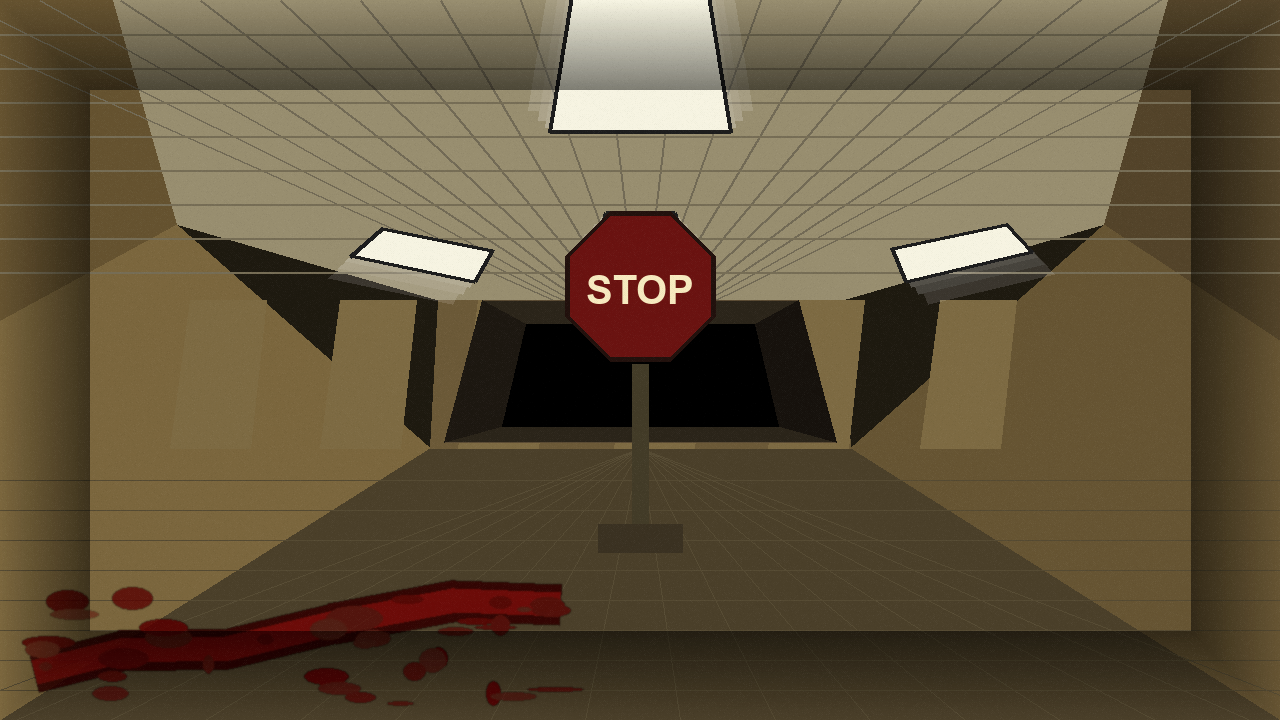
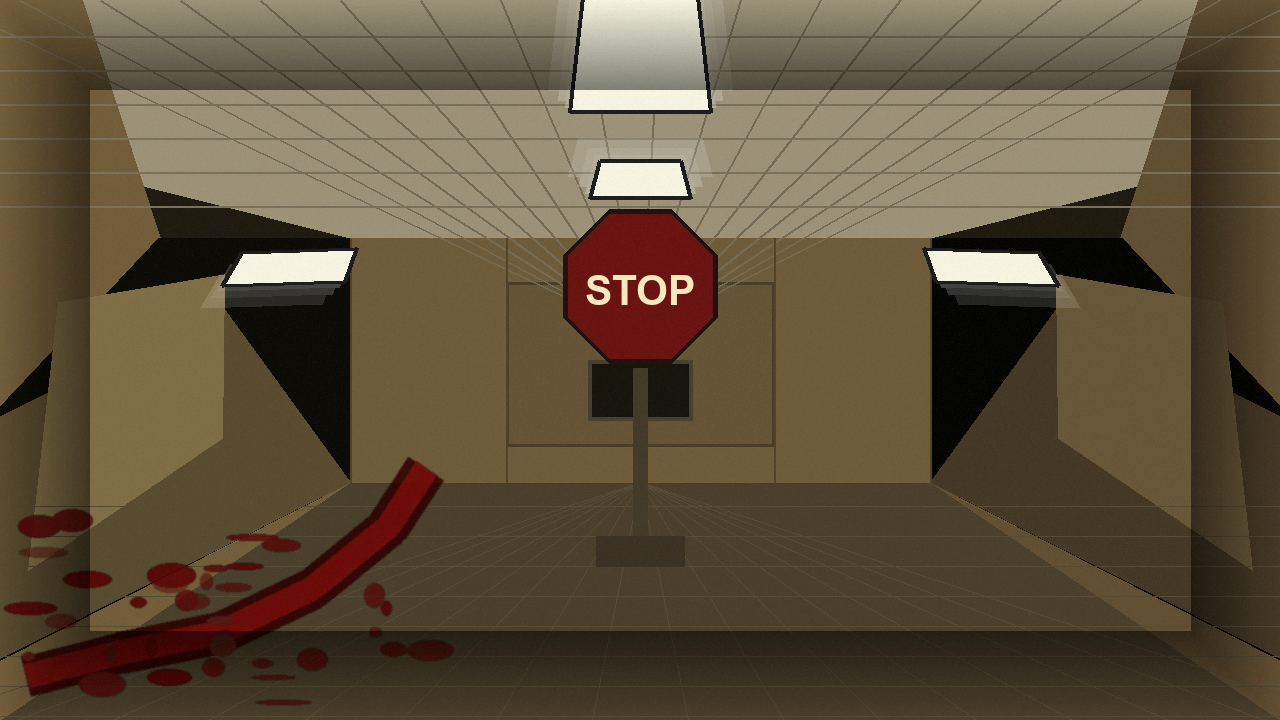
Revise fork screen preview layout

diff --git a/tools/generate_assets.py b/tools/generate_assets.py
@@ -221,67 +221,71 @@ def draw_review_light(draw: ImageDraw.ImageDraw, points: list[tuple[int, int]]) 
 
 
 def scene_fork_stop_review_candidate() -> Image.Image:
-    img = Image.new("RGB", (W, H), (35, 30, 20))
+    img = Image.new("RGB", (W, H), (36, 31, 20))
     draw = ImageDraw.Draw(img)
-    vp = (640, 338)
+    vp = (640, 332)
 
-    ceiling = [(0, 0), (1280, 0), (1104, 224), (842, 300), (438, 300), (176, 224)]
-    floor = [(0, 720), (1280, 720), (850, 448), (430, 448)]
-    left_wall = [(0, 0), (176, 224), (430, 448), (0, 720)]
-    right_wall = [(1280, 0), (1104, 224), (850, 448), (1280, 720)]
-    far_wall = [(438, 300), (842, 300), (850, 448), (430, 448)]
+    ceiling = [(0, 0), (1280, 0), (1280, 150), (930, 238), (350, 238), (0, 150)]
+    floor = [(0, 720), (1280, 720), (930, 482), (350, 482)]
+    left_near_wall = [(0, 0), (82, 0), (160, 238), (350, 482), (0, 720)]
+    right_near_wall = [(1198, 0), (1280, 0), (1280, 720), (930, 482), (1120, 238)]
+    far_wall = [(350, 238), (930, 238), (930, 482), (350, 482)]
 
-    draw.polygon(ceiling, fill=(150, 138, 105))
-    draw.polygon(left_wall, fill=(124, 101, 56))
-    draw.polygon(right_wall, fill=(105, 85, 48))
-    draw.polygon(floor, fill=(78, 65, 41))
-    draw.polygon(far_wall, fill=(110, 89, 52))
+    draw.polygon(ceiling, fill=(152, 143, 112))
+    draw.polygon(floor, fill=(77, 65, 42))
+    draw.polygon(left_near_wall, fill=(116, 93, 53))
+    draw.polygon(right_near_wall, fill=(100, 80, 47))
+    draw.polygon(far_wall, fill=(112, 91, 54))
 
-    for offset in [232, 382, 520, 676, 830, 982]:
-        draw.polygon([(offset - 42, 300), (offset + 34, 300), (offset + 18, 448), (offset - 62, 448)], fill=(126, 105, 61))
-    draw.polygon([(0, 0), (112, 0), (176, 224), (0, 320)], fill=(104, 83, 45))
-    draw.polygon([(1168, 0), (1280, 0), (1280, 340), (1104, 224)], fill=(86, 69, 40))
+    # Side openings: the front path is closed by the STOP wall, while routes continue left and right.
+    left_opening = [(158, 238), (350, 238), (350, 482), (0, 660), (0, 406)]
+    right_opening = [(930, 238), (1122, 238), (1280, 406), (1280, 660), (930, 482)]
+    draw.polygon(left_opening, fill=(18, 16, 11))
+    draw.polygon(right_opening, fill=(11, 10, 8))
+    draw.polygon([(0, 416), (222, 306), (350, 482), (0, 658)], fill=(92, 76, 44))
+    draw.polygon([(1280, 416), (1058, 306), (930, 482), (1280, 658)], fill=(72, 59, 36))
+    draw.polygon([(58, 302), (224, 274), (222, 438), (28, 570)], fill=(128, 108, 64))
+    draw.polygon([(1056, 274), (1222, 302), (1252, 570), (1058, 438)], fill=(105, 87, 52))
 
-    for x in range(-120, 1400, 80):
-        draw.line((x, 0, vp[0], vp[1]), fill=(114, 105, 83), width=2)
-    for y in range(34, 286, 34):
-        draw.line((0, y, 1280, y), fill=(118, 108, 82), width=2)
-    for x in range(-80, 1380, 95):
-        draw.line((x, 720, vp[0], 448), fill=(88, 76, 50), width=1)
-    for y in range(480, 720, 30):
-        draw.line((0, y, 1280, y), fill=(87, 75, 49), width=1)
+    # Central end wall is intentionally closed; the sign blocks forward progress.
+    draw.rectangle((506, 282, 774, 446), fill=(104, 84, 50), outline=(78, 63, 38), width=3)
+    draw.rectangle((588, 360, 692, 420), fill=(28, 24, 17), outline=(74, 64, 45), width=4)
 
-    draw_review_light(draw, [(574, -16), (706, -16), (730, 132), (550, 132)])
-    draw_review_light(draw, [(606, 212), (674, 212), (684, 250), (596, 250)])
-    draw_review_light(draw, [(620, 278), (660, 278), (666, 298), (614, 298)])
-    draw_review_light(draw, [(382, 228), (492, 250), (474, 282), (350, 256)])
-    draw_review_light(draw, [(892, 248), (1006, 224), (1032, 252), (906, 282)])
+    for x in range(-60, 1360, 80):
+        draw.line((x, 0, vp[0], vp[1]), fill=(115, 106, 82), width=2)
+    for y in range(36, 222, 34):
+        draw.line((0, y, 1280, y), fill=(120, 111, 86), width=2)
+    for x in range(-80, 1380, 96):
+        draw.line((x, 720, vp[0], 482), fill=(88, 76, 50), width=1)
+    for y in range(506, 720, 30):
+        draw.line((0, y, 1280, y), fill=(88, 76, 50), width=1)
+    for x in [350, 506, 774, 930]:
+        draw.line((x, 238, x, 482), fill=(85, 68, 40), width=2)
 
-    cavity_outer = [(482, 300), (798, 300), (836, 442), (444, 442)]
-    cavity_inner = [(526, 324), (754, 324), (778, 426), (502, 426)]
-    draw.polygon(cavity_outer, fill=(48, 40, 28), outline=(94, 76, 50))
-    draw.polygon([(482, 300), (526, 324), (502, 426), (444, 442)], fill=(34, 28, 21))
-    draw.polygon([(798, 300), (754, 324), (778, 426), (836, 442)], fill=(28, 23, 18))
-    draw.polygon(cavity_inner, fill=(0, 0, 0))
+    draw_review_light(draw, [(584, -12), (696, -12), (710, 112), (570, 112)])
+    draw_review_light(draw, [(600, 160), (680, 160), (690, 198), (590, 198)])
+    draw_review_light(draw, [(610, 226), (670, 226), (676, 250), (604, 250)])
+    draw_review_light(draw, [(242, 252), (356, 248), (344, 282), (222, 286)])
+    draw_review_light(draw, [(924, 248), (1038, 252), (1058, 286), (936, 282)])
 
     blood = Image.new("RGBA", (W, H), (0, 0, 0, 0))
     blood_draw = ImageDraw.Draw(blood)
     rng = random.Random(913)
-    trail = [(34, 672), (122, 650), (228, 648), (332, 623), (454, 600), (560, 604)]
+    trail = [(26, 676), (120, 652), (220, 632), (312, 588), (388, 526), (426, 468)]
     blood_draw.line(trail, fill=(55, 0, 0, 215), width=42, joint="curve")
     blood_draw.line(trail, fill=(124, 6, 5, 230), width=25, joint="curve")
     for _ in range(36):
-        x = rng.randint(36, 560)
-        y = rng.randint(596, 704)
+        x = rng.randint(24, 430)
+        y = rng.randint(516, 704)
         rx = rng.randint(5, 28)
         ry = rng.randint(2, 12)
         blood_draw.ellipse((x - rx, y - ry, x + rx, y + ry), fill=(98, 0, 0, rng.randint(110, 225)))
     img = Image.alpha_composite(img.convert("RGBA"), blood.filter(ImageFilter.GaussianBlur(0.8))).convert("RGB")
     draw = ImageDraw.Draw(img)
 
-    stop_sign_shape(draw, 640, 286, 80, (116, 20, 17))
-    draw.rectangle((632, 364, 648, 536), fill=(70, 61, 40))
-    draw.rectangle((598, 524, 682, 552), fill=(62, 52, 35))
+    draw.rectangle((633, 368, 647, 548), fill=(70, 61, 40))
+    draw.rectangle((596, 536, 684, 566), fill=(62, 52, 35))
+    stop_sign_shape(draw, 640, 286, 82, (116, 20, 17))
 
     vign = Image.new("RGBA", (W, H), (0, 0, 0, 0))
     vign_draw = ImageDraw.Draw(vign)
